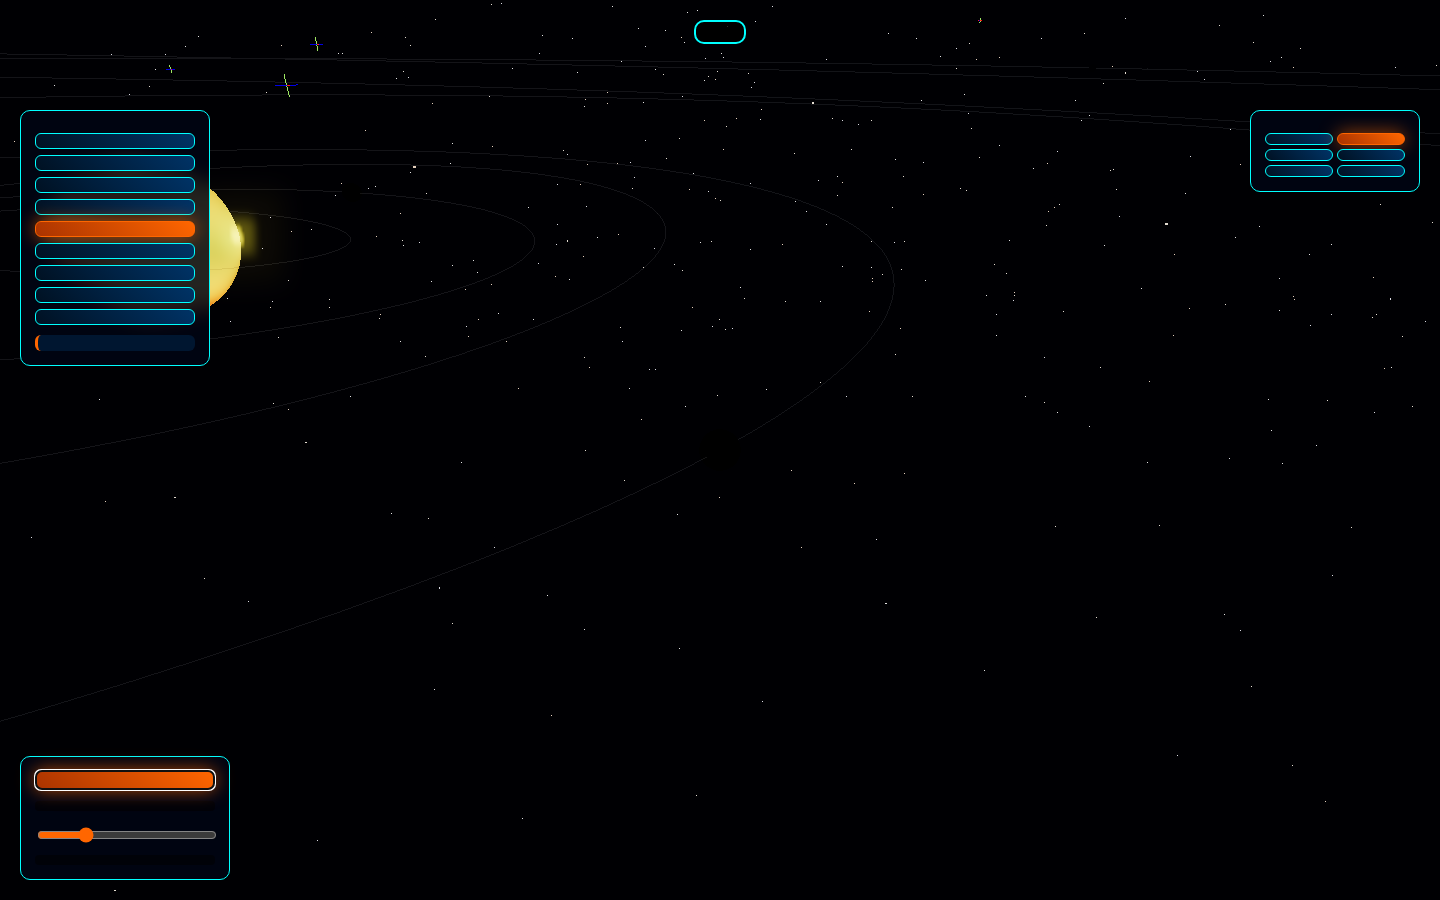
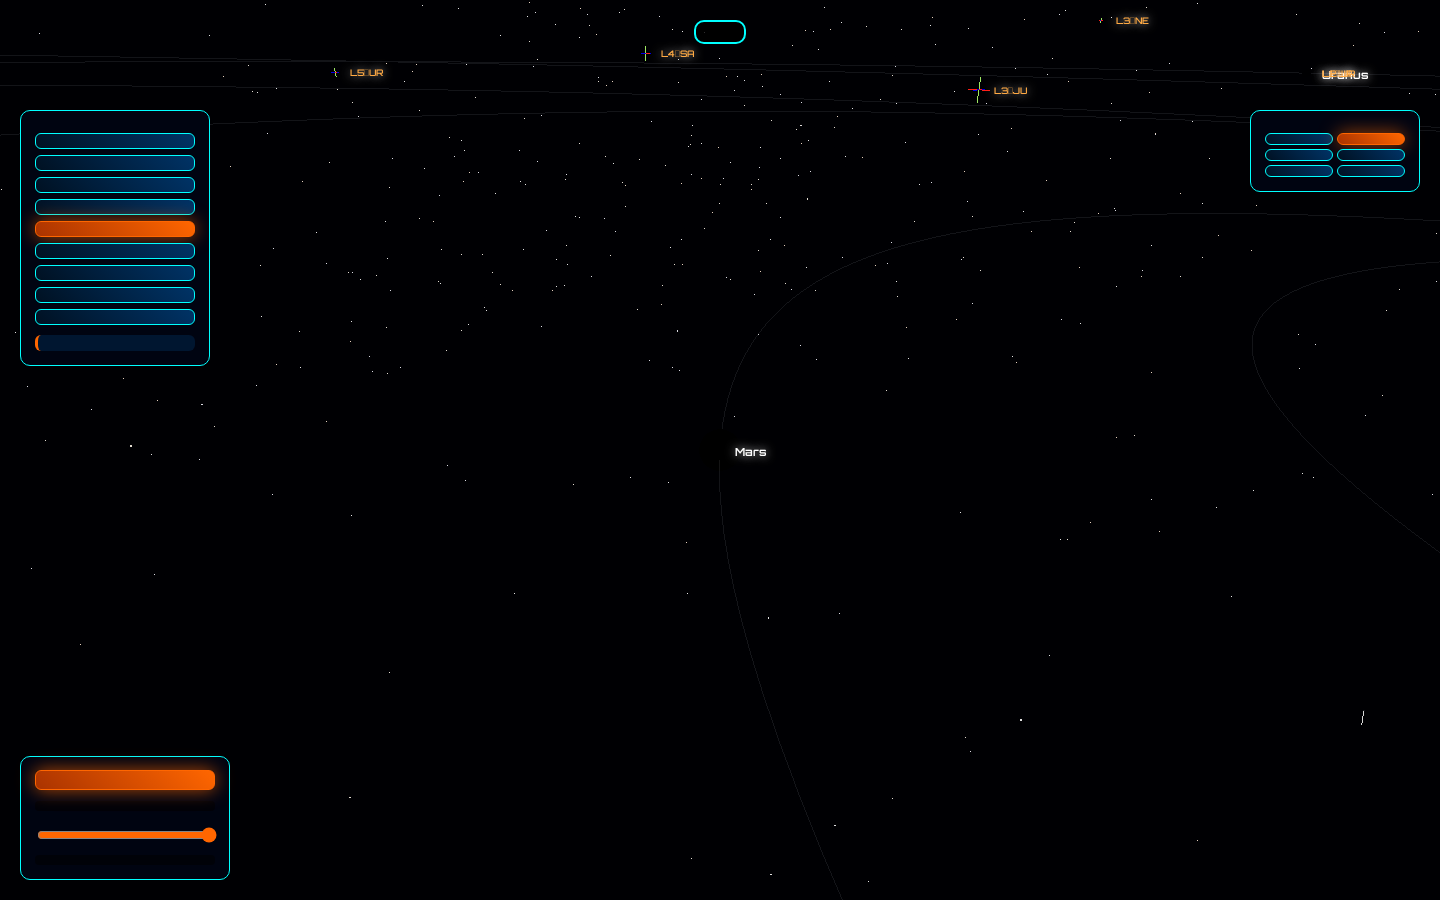
feat: physically real asteroid rain with Lagrange-point captures
The old gravity used ad-hoc constants: Sun force '50/r²' and planets
'mass*0.1/r²', giving Jupiter a mass ratio μ ≈ 0.39 vs the Sun — far above
the Routh stability criterion (μ < 0.0385), so L4/L5 could never hold
anything, and asteroid speeds (1-3 units/frame) were ~10x escape velocity
with no relation to Keplerian motion.

New physics in js/asteroids.js, unit-tested in sim days:
- GM_SUN derived from Jupiter's own Kepler period (3rd law), guaranteeing
  the asteroid dynamical clock matches the planets'
- planetGM uses true mass ratios (Jupiter μ = 317.8/333000 ≈ 0.00095)
- random rain spawns keep inbound, sub-escape velocities in the 6-10 AU
  shell so bodies stay gravitationally bound
- 40% of spawns are trojan candidates: seeded near Jupiter's L4/L5 with
  near-circular tangential velocity (±8% spread) — they librate in tadpole
  orbits around the points; visually tinted orange
- integration runs in simulated days with adaptive substepping (h ≤ 2 days)

12 unit tests including two decisive ones: energy conservation of a bound
orbit, and a full integration where a seeded trojan librates around L4
over 1.5 Jupiter periods without escaping or colliding. E2E in headless
Chromium: stable asteroid population over 25 s at 4x speed, zero errors.

diff --git a/static/lagrange.js b/static/lagrange.js
@@ -5,7 +5,7 @@ import { RenderPass } from './vendor/jsm/postprocessing/RenderPass.js';
 import { UnrealBloomPass } from './vendor/jsm/postprocessing/UnrealBloomPass.js';
 import { OutputPass } from './vendor/jsm/postprocessing/OutputPass.js';
 import { PLANETS, AU_VISUAL, SUN_MASS, REFERENTIAL_CAPTIONS, PLANET_INFO, LAGRANGE_INFO } from './js/data.js';
-import { randomSpawnState, SPAWN } from './js/asteroids.js';
+import { randomSpawnState, trojanCandidateSpawn, stepAsteroid, planetGM, GM_SUN, SPAWN } from './js/asteroids.js';
 import { planetPosition, lagrangePosition, makeDateAt } from './js/physics.js';
 import {
   createSun, createPlanetMesh, createSaturnRings, createOrbitLine,
@@ -200,12 +200,26 @@ class Trail {
   }
 }
 
+function trojanSpawnState() {
+  const jupiterIndex = PLANETS.findIndex(p => p.name === 'Jupiter');
+  const jupiter = PLANETS[jupiterIndex];
+  const helio = planetMeshes[jupiterIndex].userData.helioPos;
+  const which = Math.random() < 0.5 ? 'L4' : 'L5';
+  return trojanCandidateSpawn(helio || planetPosition(jupiter, referential.simDays), which);
+}
+
 function addDynamicAsteroid() {
-  const state = randomSpawnState({ auPerUnit: AU_VISUAL });
+  const isTrojanCandidate = Math.random() < SPAWN.trojanFraction;
+  const state = isTrojanCandidate
+    ? trojanSpawnState()
+    : randomSpawnState({ auPerUnit: AU_VISUAL });
   const size = Math.random() * 1.5 + 0.5;
   const asteroid = new THREE.Mesh(
     new THREE.SphereGeometry(size, 12, 12),
-    new THREE.MeshLambertMaterial({ color: 0xFFFFFF, emissive: 0x222222 }),
+    new THREE.MeshLambertMaterial({
+      color: isTrojanCandidate ? 0xFFAA44 : 0xFFFFFF,
+      emissive: isTrojanCandidate ? 0x442200 : 0x222222,
+    }),
   );
   asteroid.position.set(
     sun.position.x + state.offset.x,
@@ -215,25 +229,24 @@ function addDynamicAsteroid() {
   asteroid.userData = {
     velocity: new THREE.Vector3(state.velocity.x, state.velocity.y, state.velocity.z),
     isAsteroid: true,
+    trojanCandidate: isTrojanCandidate,
   };
   scene.add(asteroid);
   dynamicAsteroids.push(asteroid);
   trails.set(asteroid, new Trail());
 }
 
-function applyGravity(asteroid) {
-  const totalForce = new THREE.Vector3();
-  const dirSun = new THREE.Vector3().subVectors(sun.position, asteroid.position);
-  const distSun = dirSun.length();
-  if (distSun > 5) totalForce.add(dirSun.normalize().multiplyScalar(50 / (distSun * distSun)));
-  planetMeshes.forEach(planet => {
-    const dir = new THREE.Vector3().subVectors(planet.position, asteroid.position);
-    const dist = dir.length();
-    if (dist > 5) {
-      totalForce.add(dir.normalize().multiplyScalar(planet.userData.mass * 0.1 / (dist * dist)));
-    }
+function gravityBodies() {
+  const bodies = [{ x: sun.position.x, y: sun.position.y, z: sun.position.z, gm: GM_SUN }];
+  planetMeshes.forEach((planet, i) => {
+    bodies.push({
+      x: planet.position.x,
+      y: planet.position.y,
+      z: planet.position.z,
+      gm: planetGM(PLANETS[i].mass),
+    });
   });
-  return totalForce;
+  return bodies;
 }
 
 let asteroidRainActive = false;
@@ -371,12 +384,27 @@ function animate(now) {
 
   for (let i = dynamicAsteroids.length - 1; i >= 0; i--) {
     const asteroid = dynamicAsteroids[i];
-    const gravityForce = applyGravity(asteroid);
-    asteroid.userData.velocity.add(gravityForce.multiplyScalar(deltaTime));
-    if (asteroid.userData.velocity.length() > 10) {
-      asteroid.userData.velocity.setLength(10);
+    const simDaysStep = deltaTime * SIM_START_DAYS_PER_SECOND * referential.speed;
+    const bodies = gravityBodies();
+    const hMax = 2;
+    const subSteps = Math.max(1, Math.min(40, Math.ceil(simDaysStep / hMax)));
+    const h = simDaysStep / subSteps;
+    for (let s = 0; s < subSteps; s++) {
+      const acc = stepAsteroid(
+        { x: asteroid.position.x, y: asteroid.position.y, z: asteroid.position.z },
+        h,
+        bodies,
+      );
+      asteroid.userData.velocity.x += acc.ax * h;
+      asteroid.userData.velocity.y += acc.ay * h;
+      asteroid.userData.velocity.z += acc.az * h;
+      if (asteroid.userData.velocity.length() > SPAWN.maxSpeedCap) {
+        asteroid.userData.velocity.setLength(SPAWN.maxSpeedCap);
+      }
+      asteroid.position.x += asteroid.userData.velocity.x * h;
+      asteroid.position.y += asteroid.userData.velocity.y * h;
+      asteroid.position.z += asteroid.userData.velocity.z * h;
     }
-    asteroid.position.add(asteroid.userData.velocity.clone().multiplyScalar(0.1));
     trails.get(asteroid)?.push(asteroid.position);
     const distanceFromSun = asteroid.position.distanceTo(sun.position);
     const killDistance = SPAWN.killDistanceAU * AU_VISUAL;

diff --git a/static/js/asteroids.js b/static/js/asteroids.js
@@ -1,13 +1,35 @@
+import { PLANETS, AU_VISUAL } from './data.js';
+import { lagrangePosition } from './physics.js';
+
+const JUPITER = PLANETS.find(p => p.name === 'Jupiter');
+
+export const TIME_SCALE = 1;
+export const GM_SUN = Math.pow(JUPITER.a * AU_VISUAL, 3) * Math.pow(2 * Math.PI / JUPITER.period, 2) / Math.pow(TIME_SCALE, 2);
+export const SUN_MASS_EARTHS = 333000;
+
+export function planetGM(massEarths) {
+  return GM_SUN * massEarths / SUN_MASS_EARTHS;
+}
+
+export function circularSpeed(r) {
+  return Math.sqrt(GM_SUN / r);
+}
+
 export const SPAWN = {
   minAU: 6,
   maxAU: 10,
   maxDeflectionRad: 0.5,
-  minSpeed: 1,
-  maxSpeed: 3,
+  minSpeed: 0.8,
+  maxSpeed: 2.6,
   minIntervalMs: 2400,
   maxIntervalMs: 4200,
   killRadius: 15,
   killDistanceAU: 120,
+  maxPopulation: 150,
+  trojanFraction: 0.4,
+  trojanJitterAU: 0.45,
+  trojanSpeedSpread: 0.08,
+  maxSpeedCap: 25,
 };
 
 function randomUniform(min, max) {
@@ -55,4 +77,49 @@ export function randomSpawnState({ auPerUnit = 200 } = {}) {
     velocity: { x: velocity.x * speed, y: velocity.y * speed, z: velocity.z * speed },
     distanceAU,
   };
+}
+
+export function trojanCandidateSpawn(planetHelioPos, which) {
+  const lp = lagrangePosition(planetHelioPos, which);
+  const r = Math.hypot(lp.x, lp.z);
+  if (r === 0) {
+    return { offset: { x: 0, y: 0, z: 0 }, velocity: { x: 0, y: 0, z: 0 } };
+  }
+
+  const jitter = randomUnitVector();
+  const jitterMag = randomUniform(0, SPAWN.trojanJitterAU) * AU_VISUAL;
+  const offset = {
+    x: lp.x + jitter.x * jitterMag,
+    y: lp.y + jitter.y * jitterMag,
+    z: lp.z + jitter.z * jitterMag,
+  };
+
+  const vCirc = circularSpeed(r);
+  const speed = vCirc * (1 + (Math.random() * 2 - 1) * SPAWN.trojanSpeedSpread);
+  const tangent = { x: -lp.z / r, z: lp.x / r };
+  const radial = (Math.random() - 0.5) * 0.1 * speed;
+
+  return {
+    offset,
+    velocity: {
+      x: tangent.x * speed + (lp.x / r) * radial,
+      y: 0,
+      z: tangent.z * speed + (lp.z / r) * radial,
+    },
+  };
+}
+
+export function stepAsteroid(state, h, bodies) {
+  let ax = 0, ay = 0, az = 0;
+  for (const body of bodies) {
+    const dx = body.x - state.x;
+    const dy = body.y - state.y;
+    const dz = body.z - state.z;
+    const d2 = dx * dx + dy * dy + dz * dz;
+    const d = Math.sqrt(d2);
+    if (d < 1e-6) continue;
+    const a = body.gm / (d2 * d);
+    ax += a * dx; ay += a * dy; az += a * dz;
+  }
+  return { ax, ay, az };
 }
